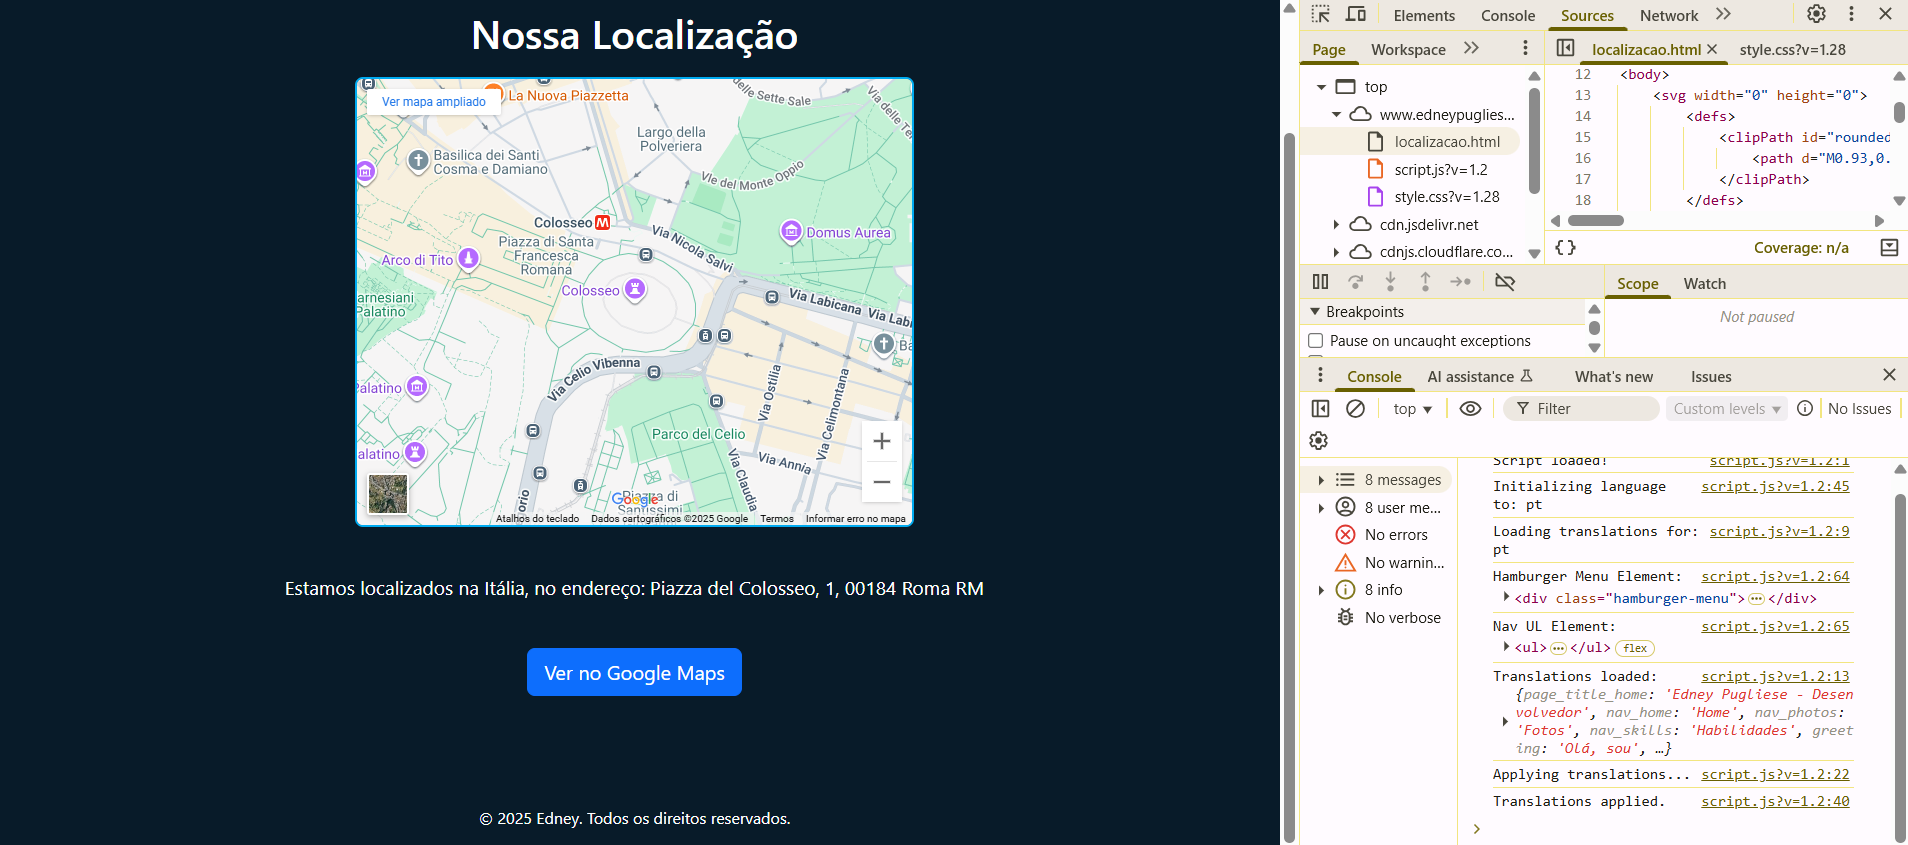
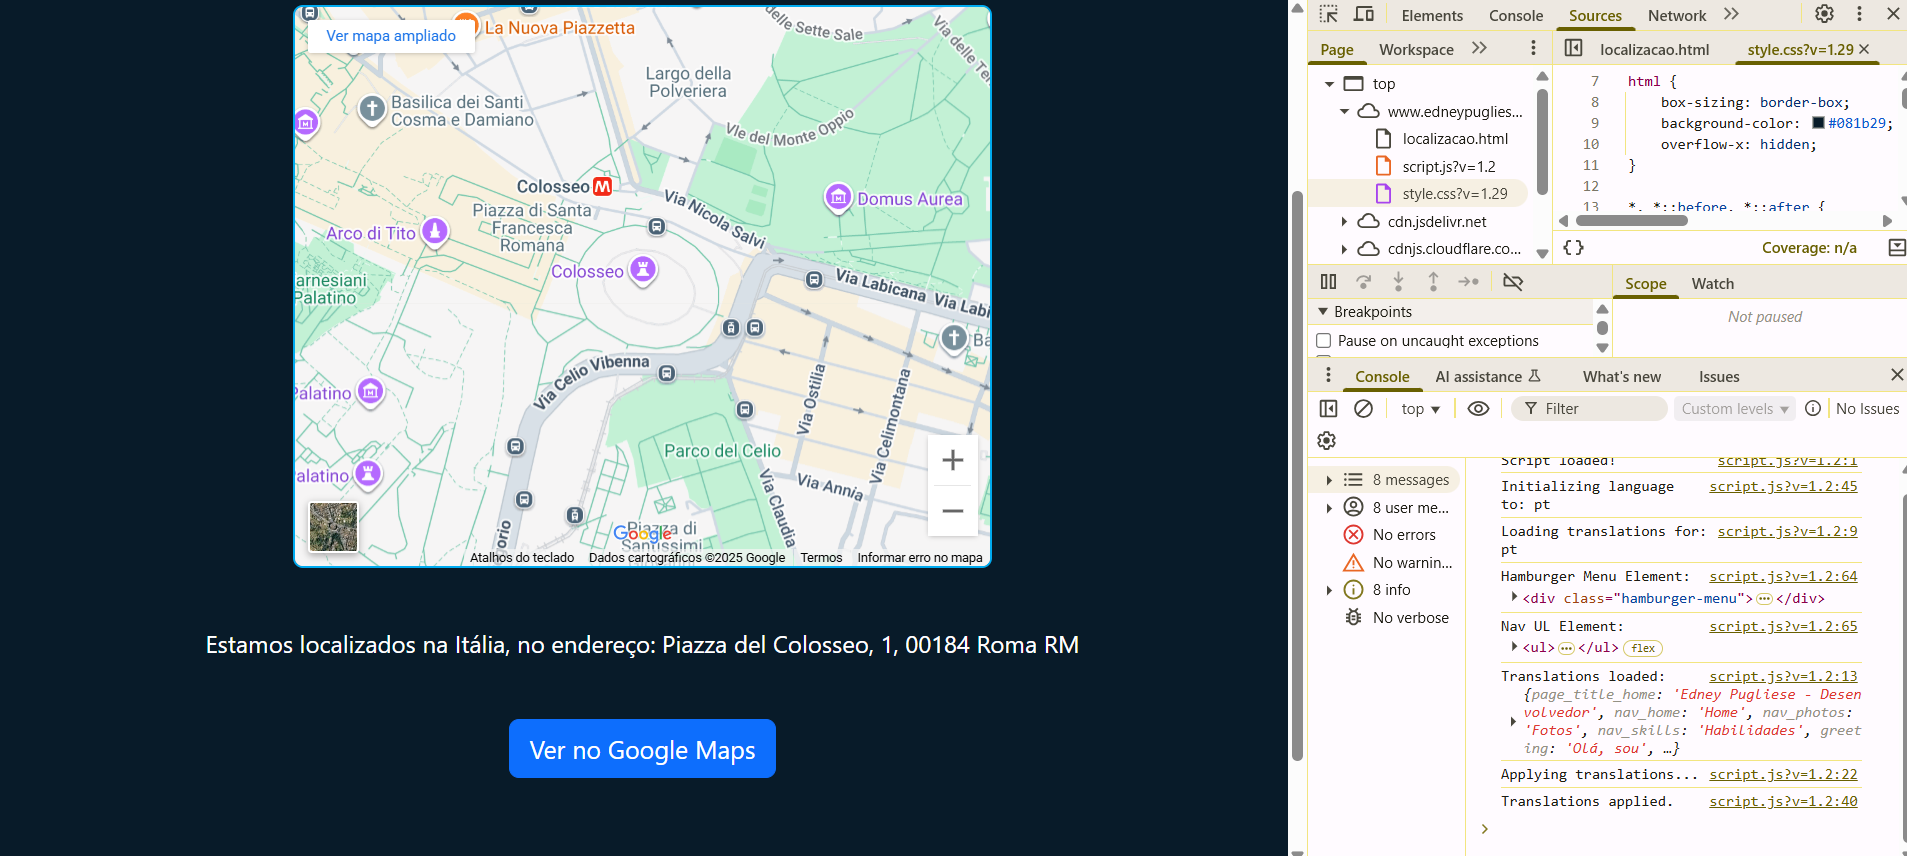
fix: Adicionada regra CSS para ícones em botões e atualizada versão do CSS em localizacao.html

diff --git a/localizacao.html b/localizacao.html
@@ -4,7 +4,7 @@
     <meta charset="UTF-8">
     <meta name="viewport" content="width=device-width, initial-scale=1.0">
     <title data-i18n="page_title_location">Edney Pugliese - Localização</title>
-    <link rel="stylesheet" href="style.css?v=1.29">
+    <link rel="stylesheet" href="style.css?v=1.30">
     <link rel="stylesheet" href="https://cdnjs.cloudflare.com/ajax/libs/font-awesome/6.0.0-beta3/css/all.min.css">
     <link href="https://cdn.jsdelivr.net/npm/bootstrap@5.3.8/dist/css/bootstrap.min.css" rel="stylesheet" integrity="sha384-sRIl4kxILFvY47J16cr9ZwB07vP4J8+LH7qKQnuqkuIAvNWLzeN8tE5YBujZqJLB" crossorigin="anonymous">
     

diff --git a/style.css b/style.css
@@ -524,3 +524,7 @@ nav ul li a:hover, nav ul li a.active {
 .footer-text {
     color: #FFFFFF;
 }
+
+.btn i {
+    color: #FFFFFF;
+}
